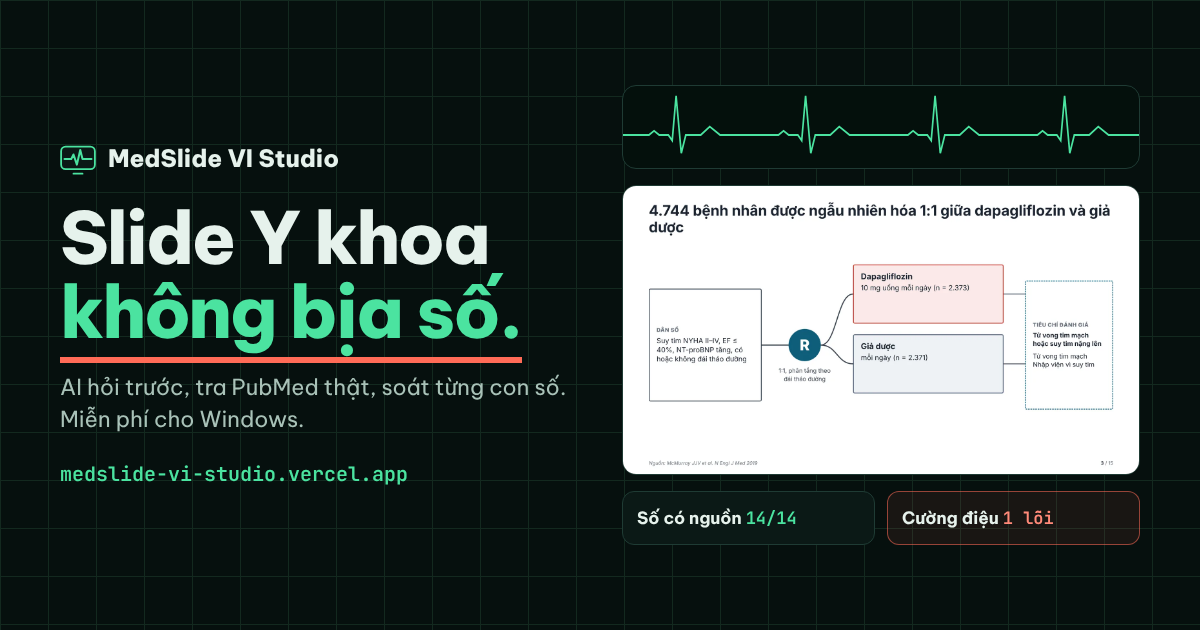
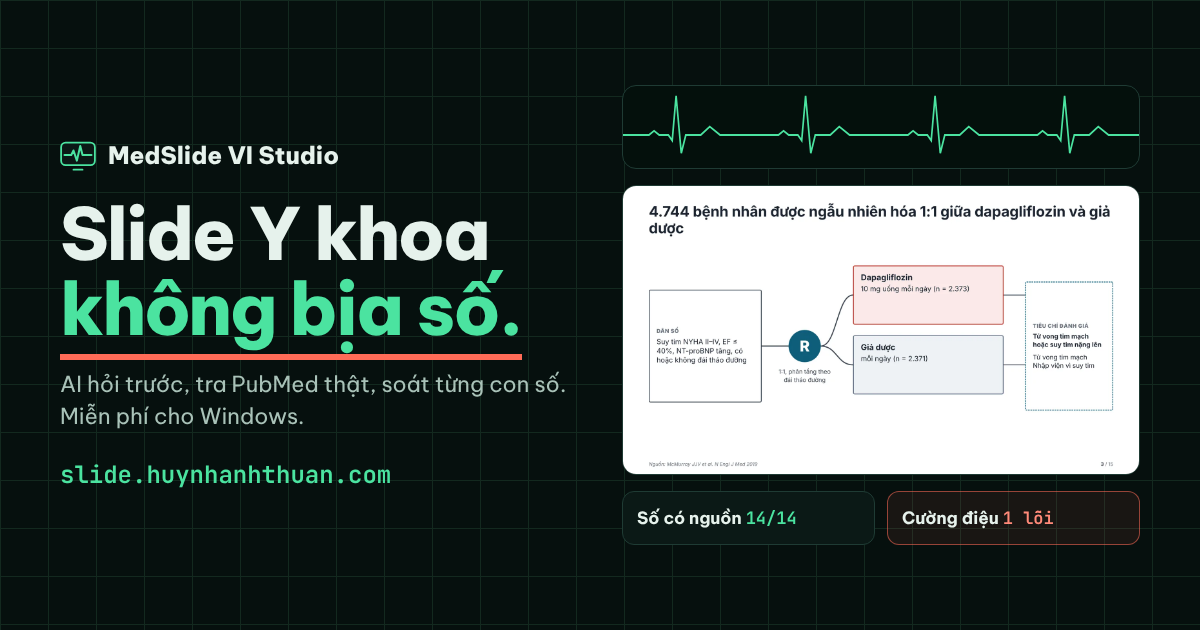
Website: tên miền slide.huynhanhthuan.com (canonical, og), ảnh chia sẻ mới, mã QR
Claude-Session: https://claude.ai/code/session_01DL5UmseSVaGTf3K6Cz9NbY

diff --git a/web/index.html b/web/index.html
@@ -10,8 +10,9 @@
 <meta property="og:type" content="website">
 <meta property="og:title" content="MedSlide VI Studio: slide Y khoa không bịa số">
 <meta property="og:description" content="AI hỏi trước, tra PubMed thật, kiểm từng con số trước khi bạn lên bục. Miễn phí cho Windows.">
-<meta property="og:image" content="https://medslide-vi-studio.vercel.app/assets/img/og.png">
-<meta property="og:url" content="https://medslide-vi-studio.vercel.app/">
+<meta property="og:image" content="https://slide.huynhanhthuan.com/assets/img/og.png">
+<meta property="og:url" content="https://slide.huynhanhthuan.com/">
+<link rel="canonical" href="https://slide.huynhanhthuan.com/">
 <link rel="preload" href="assets/fonts/bvp-vietnamese-800.woff2" as="font" type="font/woff2" crossorigin>
 <link rel="stylesheet" href="assets/css/site.css">
 <script src="config.js" defer></script>
